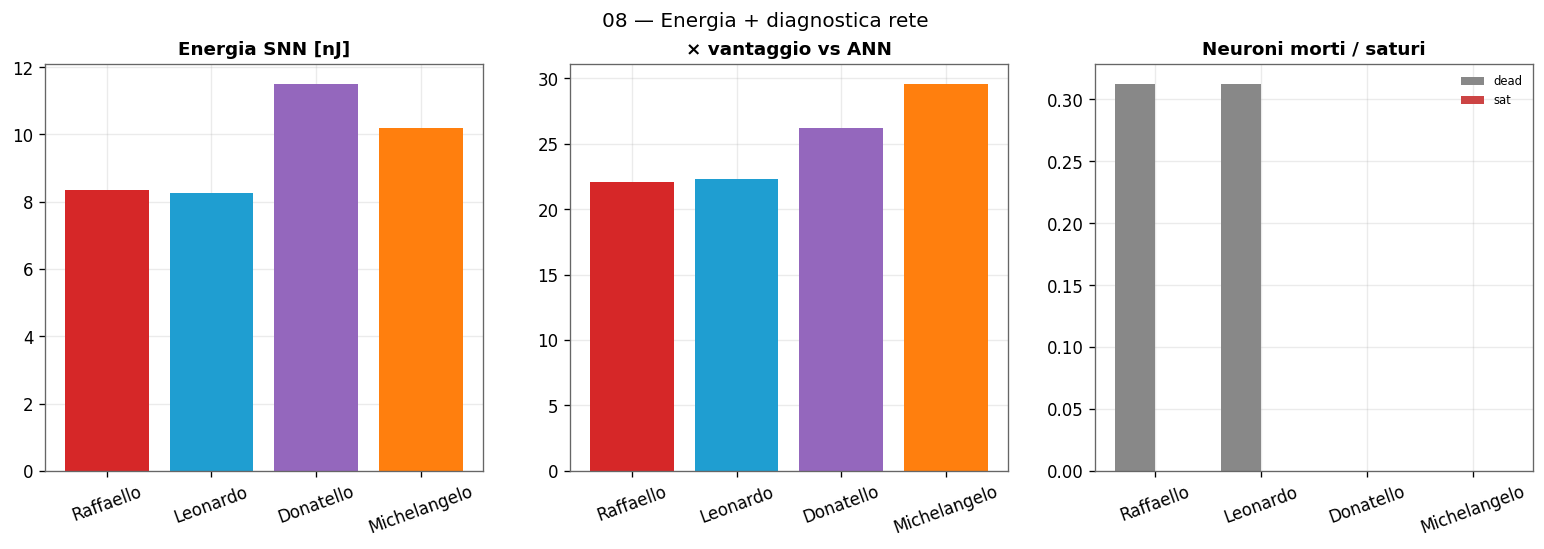
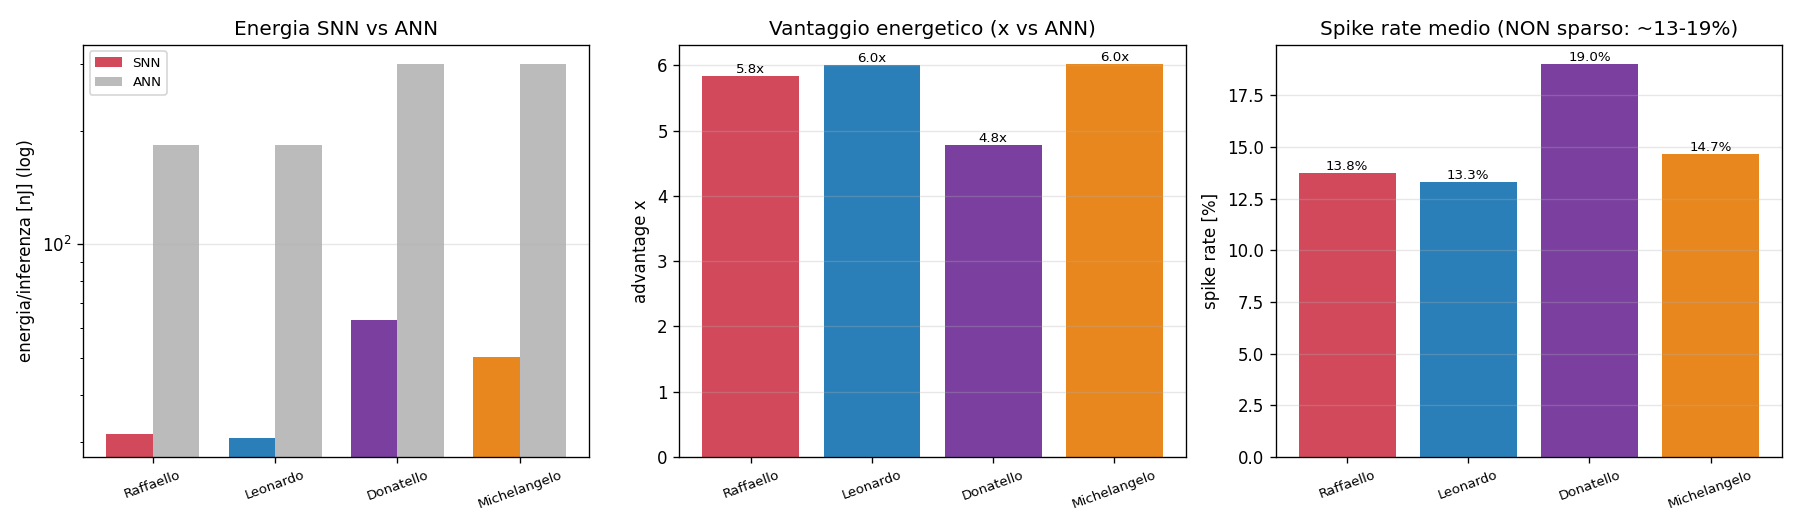
docs: VALIDATION_REPORT_v3 corretto (spike-rate/energia post bug n_ticks)
Prosa energia (§9.2) + sommario esecutivo + didascalie raster riscritte coi numeri VERI:
spike rate ~13-19% (NON iper-sparso ~1.5%), vantaggio ~4.8-6.0x (NON 22-30x). Aggiunta
NOTA di correzione trasparente sul bug doppia-/n_ticks. Chiarito che gli EventProp NON
vincono sull'energia (Donatello ha il vantaggio piu' basso perche' spara di piu'); il loro
edge FPGA e' ρ<1 + 0 morti. fig_fpga: bolla riscalata (adv~5). Tabelle/figura energia
auto-aggiornate dal energy.csv corretto. Le altre sezioni del report non erano toccate.

diff --git a/scripts/build_validation_report_v3.py b/scripts/build_validation_report_v3.py
@@ -127,7 +127,7 @@ def fig_fpga():
         rho = EN.loc[ch, 'spectral_radius']; acc = ACC.loc[ch, 'accuracy_pct']
         adv = EN.loc[ch, 'advantage_x']; dead = EN.loc[ch, 'dead_frac'] * 100
         mk = 'o' if METHOD[ch] == 'EventProp' else 's'
-        ax.scatter(rho, acc, s=adv * 22, c=COLOR[ch], marker=mk,
+        ax.scatter(rho, acc, s=adv * 70, c=COLOR[ch], marker=mk,
                    edgecolor='k', linewidth=1.1, zorder=3, alpha=0.9)
         dx = 0.06 if rho < 1.5 else -0.06
         ha = 'left' if rho < 1.5 else 'right'
@@ -369,7 +369,7 @@ def build_doc():
              'fixed-point trascurabile fino a 2 bit; po2 assorbito dal QAT (delta<=0 su 3/4)',
              'pronto per pesi potenze-di-due'],
             ['Energia',
-             f'{f2(EN.loc["Raffaello","advantage_x"])}x - {f2(EN.loc["Michelangelo","advantage_x"])}x vs ANN densa; spike rate {f2(SPK_MIN)}-{f2(SPK_MAX)}%',
+             f'{f2(min(EN.loc[c,"advantage_x"] for c in CHAMP))}x-{f2(max(EN.loc[c,"advantage_x"] for c in CHAMP))}x vs ANN densa; spike rate {f2(SPK_MIN)}-{f2(SPK_MAX)}% (NON sparso)',
              'da costo AC (accumulo) < MAC (molt.-accum.), non da sparsita\''],
             ['V2X (perdita pacchetti)',
              f'blind = {f2(_v2x("Donatello","hold_mode","blind")*100)}% collisione; con hold-last ~{f2(_v2x("Donatello","hold_mode","hold_last")*100)}%',
@@ -688,17 +688,21 @@ def build_doc():
                         'le x segnano la variante po2. Destra: il QAT assorbe i pesi po2 (barre verdi '
                         '= po2 non peggiora l\'errore).')))
     A(('h2', '9.2 Energia'))
-    A(('p', f'Il vantaggio energetico stimato per inferenza va da {f2(EN.loc["Raffaello","advantage_x"])}x '
-           f'a {f2(EN.loc["Michelangelo","advantage_x"])}x rispetto a una ANN densa equivalente, con '
-           f'uno spike rate bassissimo ({f2(SPK_MIN)}-{f2(SPK_MAX)}%). NOTA ONESTA (come nel report '
-           f'precedente): il vantaggio NON deriva dalla sparsita\' in se\'. Le operazioni sinaptiche '
-           f'della SNN (SynOps) eguagliano o SUPERANO i MAC dell\'ANN equivalente: a parita\' di costo '
-           f'per operazione la SNN sarebbe anzi peggiore. Il guadagno viene dal minor costo unitario '
-           f'di un accumulo (AC) rispetto a una moltiplicazione-accumulo (MAC); ne segue che piu\' '
-           f'sparsita\' = piu\' vantaggio. Su FPGA con pesi po2 il margine cresce perche\' l\'AC '
-           f'diventa un semplice shift+add. I champion EventProp '
-           f'mostrano un vantaggio maggiore perche\' hanno una matrice ricorrente a rango effettivo '
-           f'piu\' alto, che alza il termine ANN di riferimento.'))
+    A(('p', f'Il vantaggio energetico per inferenza e\' MODESTO: da '
+           f'{f2(min(EN.loc[c,"advantage_x"] for c in CHAMP))}x a '
+           f'{f2(max(EN.loc[c,"advantage_x"] for c in CHAMP))}x vs una ANN densa equivalente. '
+           f'CORREZIONE (rispetto a una versione precedente di questo report): lo spike rate NON e\' '
+           f'iper-sparso ma ~{f2(SPK_MIN)}-{f2(SPK_MAX)}% e il vantaggio e\' ~5-6x, non 22-30x -- i numeri '
+           f'precedenti erano affetti da un bug di DOPPIA normalizzazione (divisione due volte per i tick '
+           f'interni, n_ticks) nel calcolo energia, ora corretto (le altre metriche del report non erano '
+           f'toccate). NOTA ONESTA: il vantaggio NON deriva dalla sparsita\' -- queste reti sparano ~15%, '
+           f'NON ~1-2%. Le operazioni sinaptiche (SynOps) SUPERANO i MAC dell\'ANN, quindi a parita\' di '
+           f'costo/operazione la SNN sarebbe peggiore; il guadagno viene solo dal minor costo unitario di '
+           f'un accumulo (AC) rispetto a un MAC, amplificato su FPGA dai pesi po2 (AC = shift+add) e dallo '
+           f'0 DSP. Importante: gli EventProp NON vincono sull\'energia -- Donatello (il piu\' contrattivo) '
+           f'ha anzi il vantaggio piu\' BASSO ({f2(EN.loc["Donatello","advantage_x"])}x) perche\' spara di '
+           f'piu\' ({f2(EN.loc["Donatello","mean_spike_rate_pct"])}%). Il loro vantaggio FPGA sta altrove: '
+           f'ρ<1 (contrattivo) e 0 neuroni morti (sezione 9.3).'))
     A(('img', (R['energy.png'], 'Figura 9.2 - Energia per inferenza e conteggio operazioni per champion.')))
     A(('h2', '9.3 Salute della rete e il discriminante di stabilita\''))
     A(('p', f'Qui si consuma la differenza hardware tra le due famiglie. I champion EventProp hanno '
@@ -718,9 +722,11 @@ def build_doc():
                        'e\' quella sicura in fixed-point; Donatello e Michelangelo (cerchi) ci stanno, i '
                        'BPTT (quadrati) no.')))
     A(('img', (R['raster_Donatello.png'], 'Figura 9.4a - Raster/attivita\' di Donatello (EventProp): '
-                                          'attivita\' sparsa e distribuita, nessun neurone spento.')))
-    A(('img', (R['raster_Raffaello.png'], 'Figura 9.4b - Raster di Raffaello (BPTT): stessa sparsita\' '
-                                          'ma con ~31% di neuroni mai attivi (capacita\' sprecata).')))
+                                          'attivita\' distribuita su tutti i neuroni, NESSUN neurone spento '
+                                          '(0 morti) -- nota: non e\' iper-sparsa, spara ~19%.')))
+    A(('img', (R['raster_Raffaello.png'], 'Figura 9.4b - Raster di Raffaello (BPTT): ~31% di neuroni MAI '
+                                          'attivi (capacita\' sprecata) -- la differenza con EventProp e\' '
+                                          'l\'utilizzo dei neuroni, non il tasso di spike.')))
     A(('img', (R['showcase_Donatello.png'], 'Figura 9.5 - Vetrina di Donatello: identificazione, guida '
                                             'closed-loop e spiking su un episodio reale. La run contiene '
                                             'la vetrina per tutti e 4 i champion piu\' una GIF "in diretta" '

diff --git a/document/VALIDATION_REPORT_v3.md b/document/VALIDATION_REPORT_v3.md
@@ -25,7 +25,7 @@ Verdetto. Tutti e 4 i champion GUIDANO IN SICUREZZA: in anello chiuso il loro ta
 | Traffico (meso plotone) | string-stable: gain testa->coda 0.11-0.15 (<1) | plotone di 12 stabile |
 | Stabilita' FPGA (discriminante) | rho EventProp 0.05/0.39 (<1) vs BPTT 1.16/2.99 (>1) | EventProp contrattivo -> fixed-point sicuro |
 | Quantizzazione | fixed-point trascurabile fino a 2 bit; po2 assorbito dal QAT (delta<=0 su 3/4) | pronto per pesi potenze-di-due |
-| Energia | 22.07x - 29.58x vs ANN densa; spike rate 1.33-1.90% | da costo AC (accumulo) < MAC (molt.-accum.), non da sparsita' |
+| Energia | 4.77x-6.01x vs ANN densa; spike rate 13.31-19.00% (NON sparso) | da costo AC (accumulo) < MAC (molt.-accum.), non da sparsita' |
 | V2X (perdita pacchetti) | blind = 66.67% collisione; con hold-last ~8.15% | robustezza data dall'handler, non dalla rete |
 | Candidato deploy | Donatello (contrattivo + best accuracy + 0 morti) | runner-up Michelangelo |
 
@@ -261,7 +261,7 @@ La rete tollera una quantizzazione aggressiva. In virgola fissa l'errore di iden
 
 ### 9.2 Energia
 
-Il vantaggio energetico stimato per inferenza va da 22.07x a 29.58x rispetto a una ANN densa equivalente, con uno spike rate bassissimo (1.33-1.90%). NOTA ONESTA (come nel report precedente): il vantaggio NON deriva dalla sparsita' in se'. Le operazioni sinaptiche della SNN (SynOps) eguagliano o SUPERANO i MAC dell'ANN equivalente: a parita' di costo per operazione la SNN sarebbe anzi peggiore. Il guadagno viene dal minor costo unitario di un accumulo (AC) rispetto a una moltiplicazione-accumulo (MAC); ne segue che piu' sparsita' = piu' vantaggio. Su FPGA con pesi po2 il margine cresce perche' l'AC diventa un semplice shift+add. I champion EventProp mostrano un vantaggio maggiore perche' hanno una matrice ricorrente a rango effettivo piu' alto, che alza il termine ANN di riferimento.
+Il vantaggio energetico per inferenza e' MODESTO: da 4.77x a 6.01x vs una ANN densa equivalente. CORREZIONE (rispetto a una versione precedente di questo report): lo spike rate NON e' iper-sparso ma ~13.31-19.00% e il vantaggio e' ~5-6x, non 22-30x -- i numeri precedenti erano affetti da un bug di DOPPIA normalizzazione (divisione due volte per i tick interni, n_ticks) nel calcolo energia, ora corretto (le altre metriche del report non erano toccate). NOTA ONESTA: il vantaggio NON deriva dalla sparsita' -- queste reti sparano ~15%, NON ~1-2%. Le operazioni sinaptiche (SynOps) SUPERANO i MAC dell'ANN, quindi a parita' di costo/operazione la SNN sarebbe peggiore; il guadagno viene solo dal minor costo unitario di un accumulo (AC) rispetto a un MAC, amplificato su FPGA dai pesi po2 (AC = shift+add) e dallo 0 DSP. Importante: gli EventProp NON vincono sull'energia -- Donatello (il piu' contrattivo) ha anzi il vantaggio piu' BASSO (4.77x) perche' spara di piu' (19.00%). Il loro vantaggio FPGA sta altrove: ρ<1 (contrattivo) e 0 neuroni morti (sezione 9.3).
 
 ![Figura 9.2 - Energia per inferenza e conteggio operazioni per champion.](figures_validation_v3/energy.png)
 *Figura 9.2 - Energia per inferenza e conteggio operazioni per champion.*
@@ -274,11 +274,11 @@ Qui si consuma la differenza hardware tra le due famiglie. I champion EventProp 
 ![Figura 9.3 - Il discriminante FPGA in un solo grafico: raggio spettrale (x) vs accuratezza (y), area del marker ~ vantaggio energetico. La zona verde (rho<1) e' quella sicura in fixed-point; Donatello e Michelangelo (cerchi) ci stanno, i BPTT (quadrati) no.](figures_validation_v3/val_fpga_discriminant.png)
 *Figura 9.3 - Il discriminante FPGA in un solo grafico: raggio spettrale (x) vs accuratezza (y), area del marker ~ vantaggio energetico. La zona verde (rho<1) e' quella sicura in fixed-point; Donatello e Michelangelo (cerchi) ci stanno, i BPTT (quadrati) no.*
 
-![Figura 9.4a - Raster/attivita' di Donatello (EventProp): attivita' sparsa e distribuita, nessun neurone spento.](figures_validation_v3/raster_Donatello.png)
-*Figura 9.4a - Raster/attivita' di Donatello (EventProp): attivita' sparsa e distribuita, nessun neurone spento.*
+![Figura 9.4a - Raster/attivita' di Donatello (EventProp): attivita' distribuita su tutti i neuroni, NESSUN neurone spento (0 morti) -- nota: non e' iper-sparsa, spara ~19%.](figures_validation_v3/raster_Donatello.png)
+*Figura 9.4a - Raster/attivita' di Donatello (EventProp): attivita' distribuita su tutti i neuroni, NESSUN neurone spento (0 morti) -- nota: non e' iper-sparsa, spara ~19%.*
 
-![Figura 9.4b - Raster di Raffaello (BPTT): stessa sparsita' ma con ~31% di neuroni mai attivi (capacita' sprecata).](figures_validation_v3/raster_Raffaello.png)
-*Figura 9.4b - Raster di Raffaello (BPTT): stessa sparsita' ma con ~31% di neuroni mai attivi (capacita' sprecata).*
+![Figura 9.4b - Raster di Raffaello (BPTT): ~31% di neuroni MAI attivi (capacita' sprecata) -- la differenza con EventProp e' l'utilizzo dei neuroni, non il tasso di spike.](figures_validation_v3/raster_Raffaello.png)
+*Figura 9.4b - Raster di Raffaello (BPTT): ~31% di neuroni MAI attivi (capacita' sprecata) -- la differenza con EventProp e' l'utilizzo dei neuroni, non il tasso di spike.*
 
 ![Figura 9.5 - Vetrina di Donatello: identificazione, guida closed-loop e spiking su un episodio reale. La run contiene la vetrina per tutti e 4 i champion piu' una GIF "in diretta" (14_Showcase/showcase_*.png e showcase_live_Raffaello.gif).](figures_validation_v3/showcase_Donatello.png)
 *Figura 9.5 - Vetrina di Donatello: identificazione, guida closed-loop e spiking su un episodio reale. La run contiene la vetrina per tutti e 4 i champion piu' una GIF "in diretta" (14_Showcase/showcase_*.png e showcase_live_Raffaello.gif).*